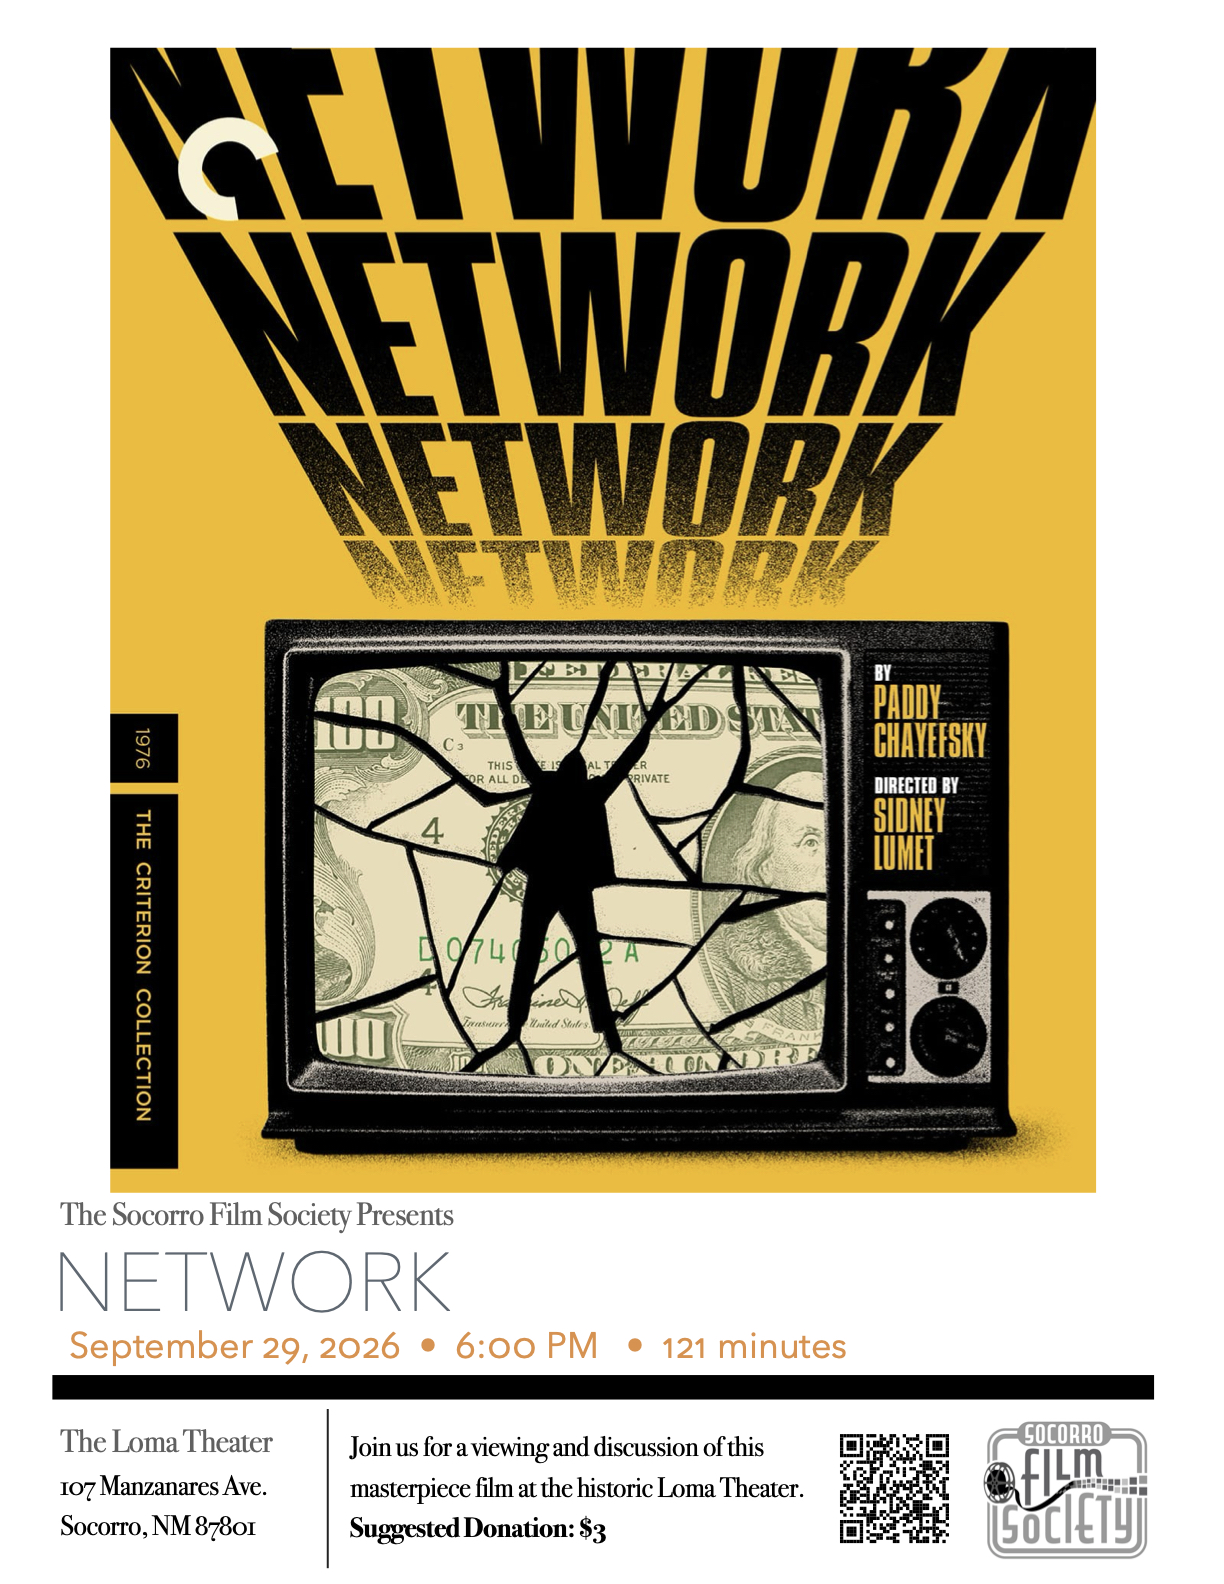
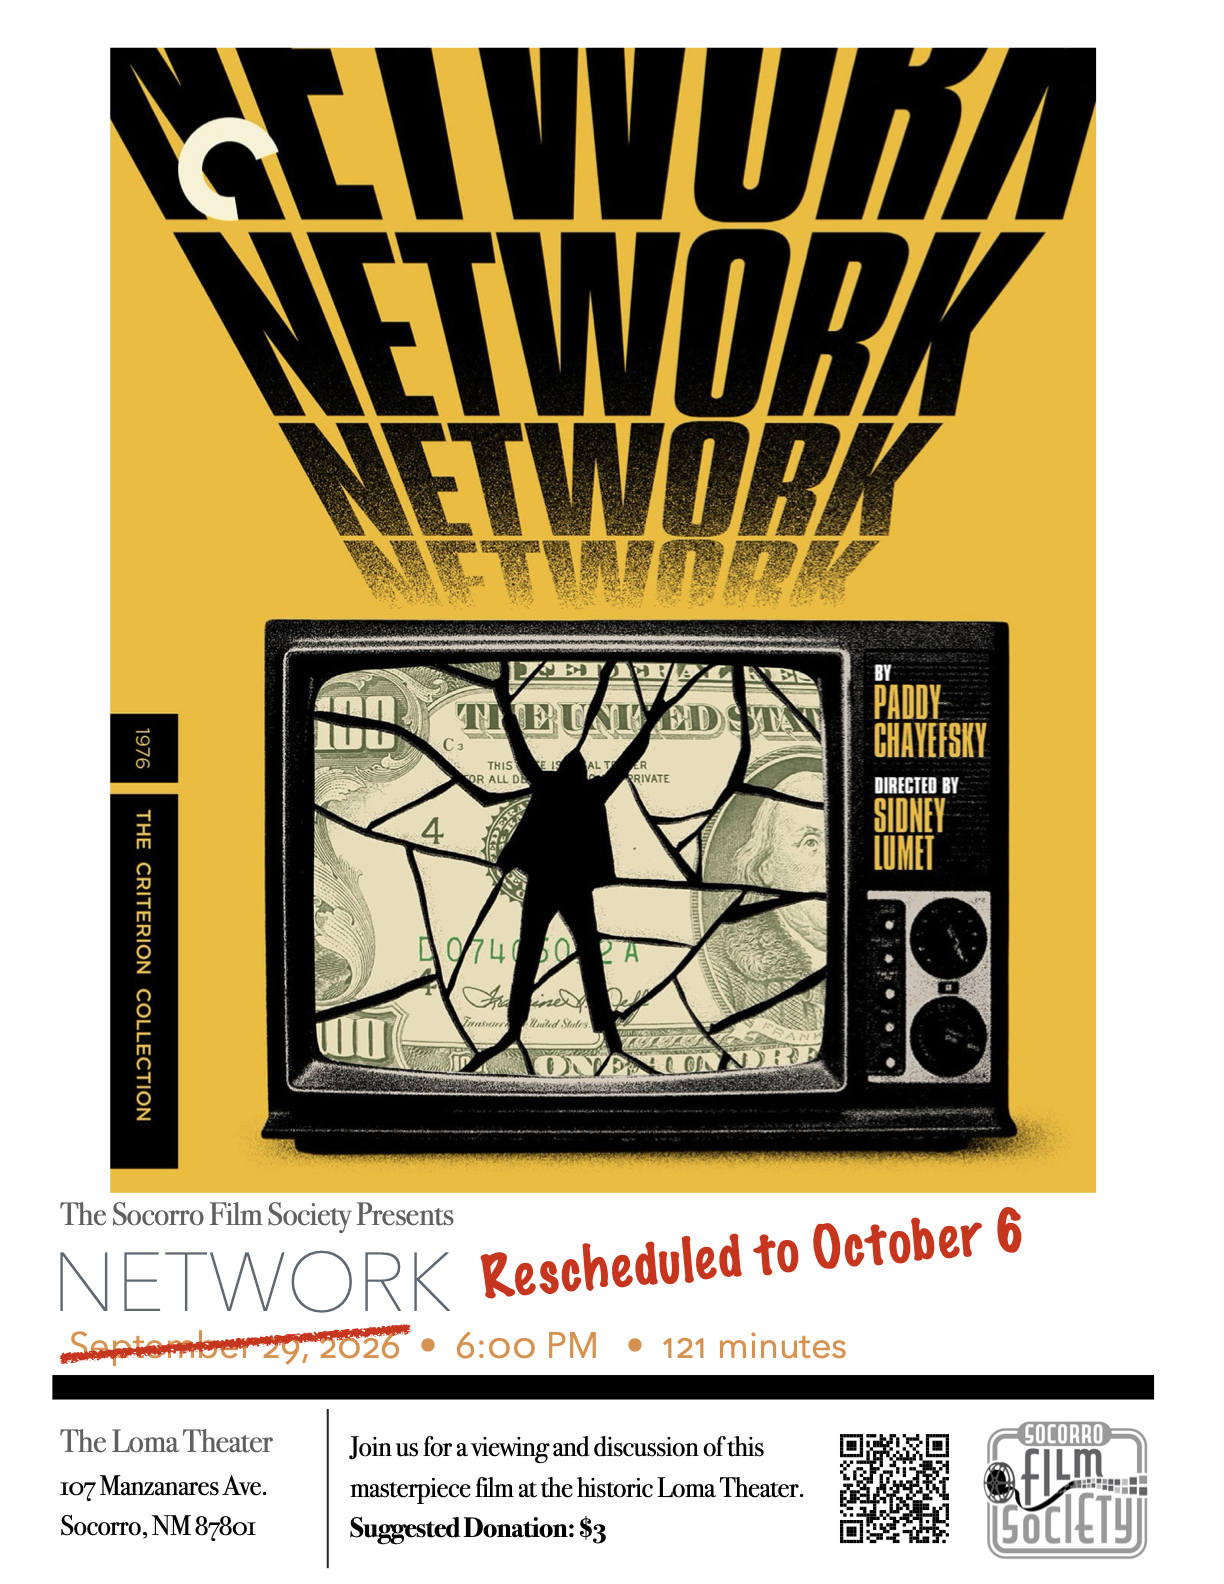
Postponing Network showing to next week (Oct 6)

Changed region(s): [[0.3725, 0.7424, 0.8382, 0.8352], [0.0621, 0.8352, 0.3415, 0.8662]]

diff --git a/socorro-film-society.org/index.html b/socorro-film-society.org/index.html
@@ -94,7 +94,8 @@
         <div class="right">
           <dl class="showing-details">
             <dt>When</dt>
-            <dd><time datetime="2026-09-29 18:00:00-0700">September 29, 2026 @ 6:00 PM</time></dd>
+            <dd><s><time>September 29, 2026</time></s></dd>
+            <dd><strong>Postponed to</strong> <time datetime="2026-10-06 18:00:00-0700">October 6, 2026 @ 6:00 PM</time></dd>
         
             <dt>Where</dt>
             <dd>Loma Theater<br>
